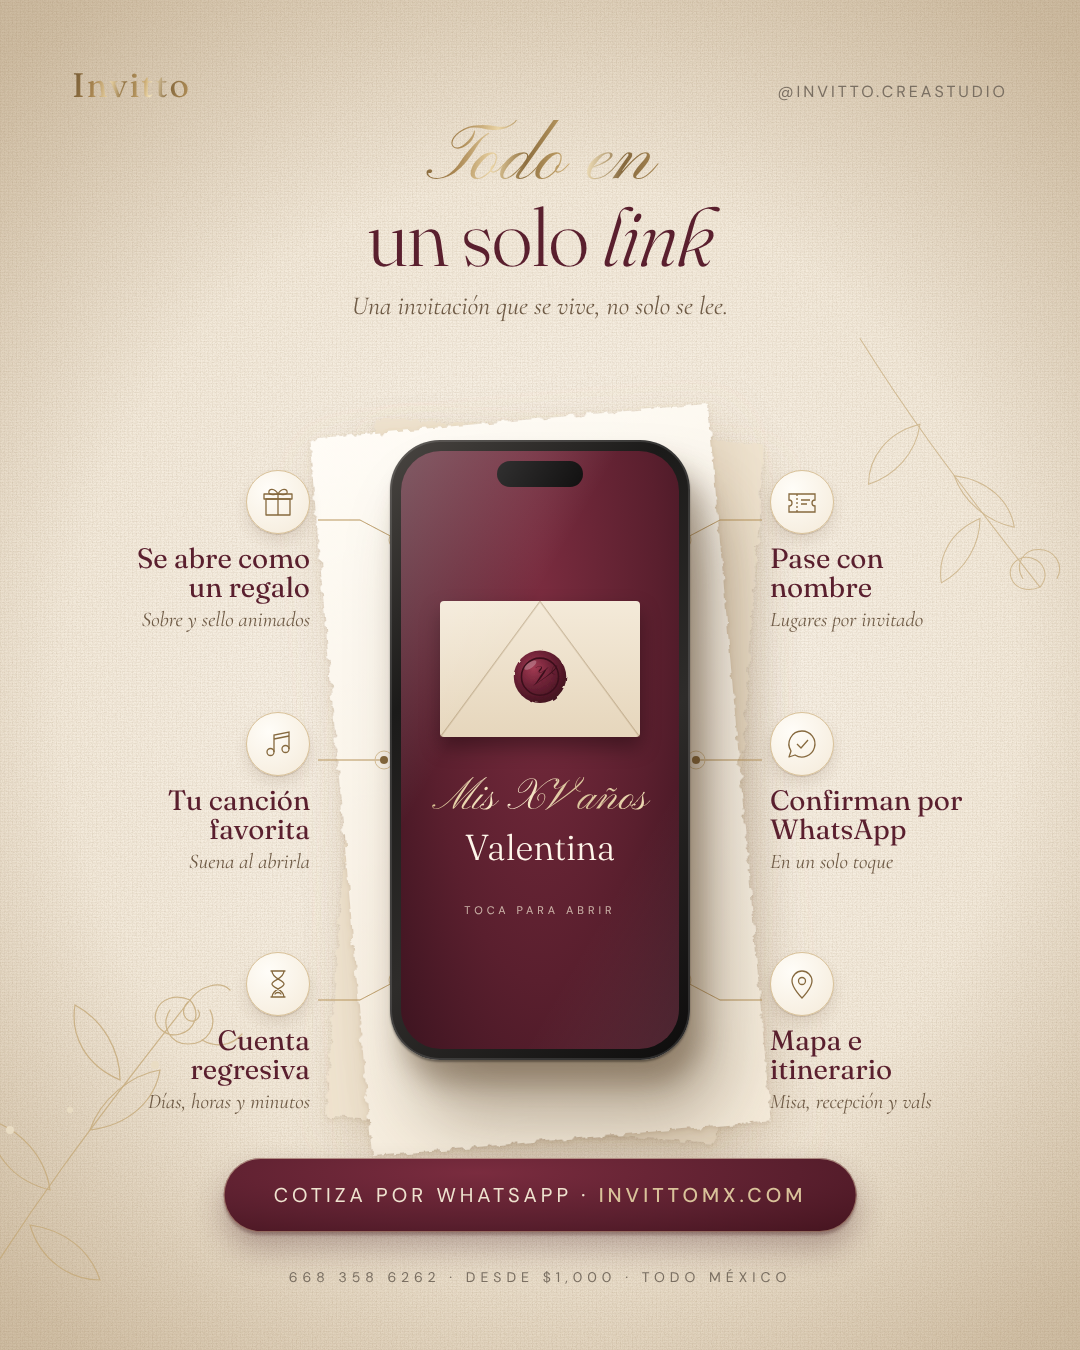
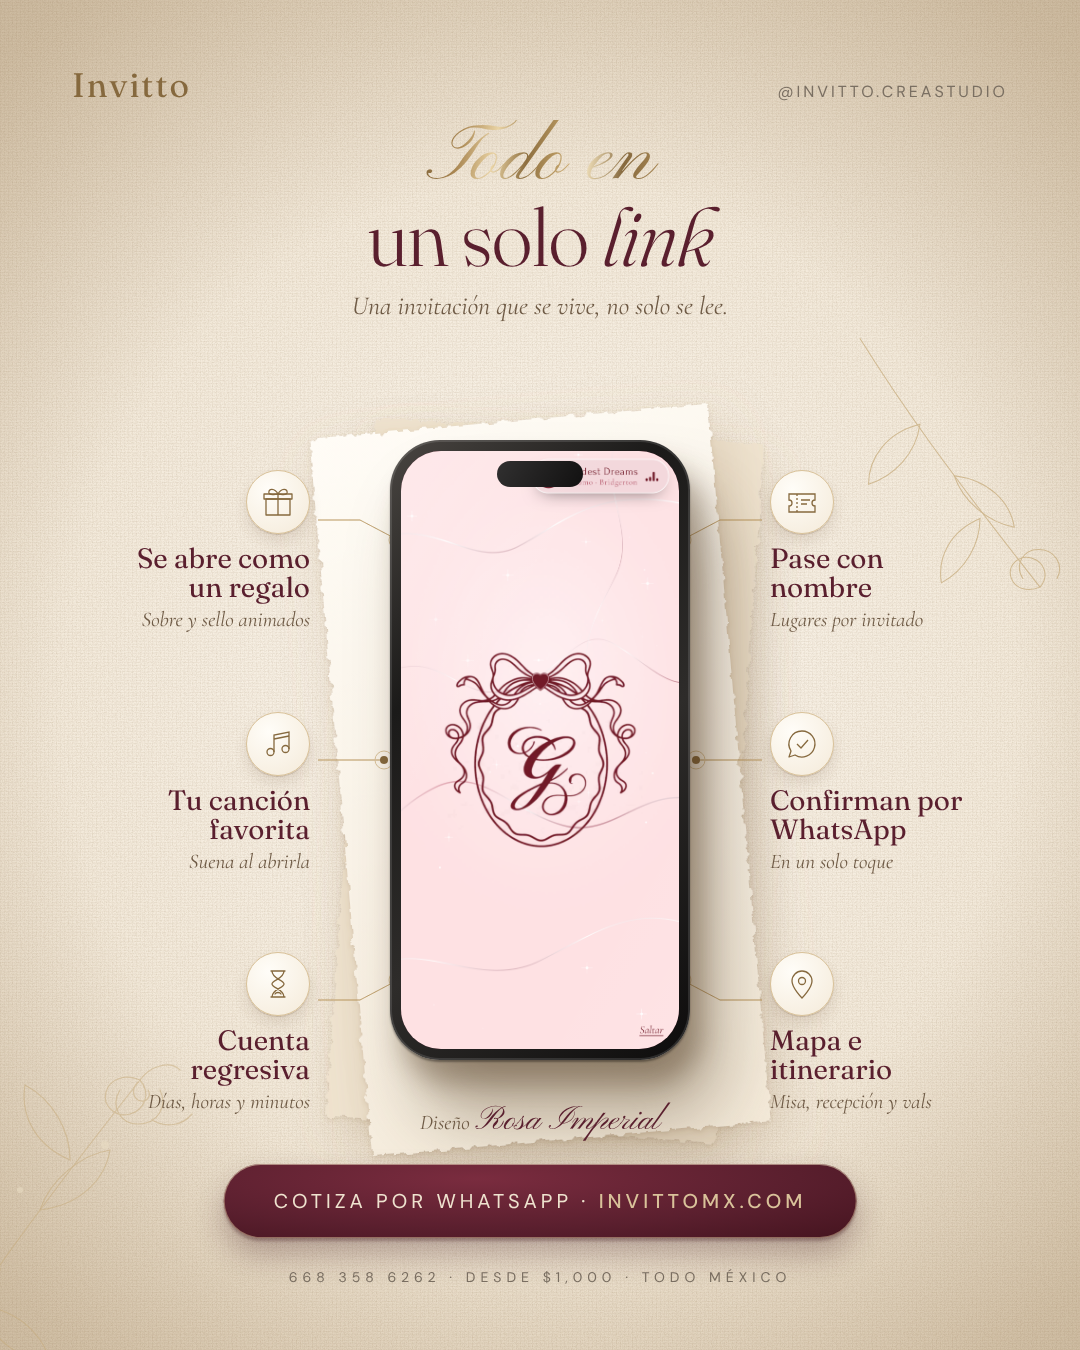
Redesign general posts with real Invitto designs
Claude-Session: https://claude.ai/code/session_01EgrmTncf6G6khRgjzffLsV

diff --git a/invitto-posts/src/xv-1-promo.html b/invitto-posts/src/xv-1-promo.html
@@ -4,7 +4,7 @@
 :root{--ch:#2E2C2A;--iv:#FAF5EC;--ivd:#F1E8DA;--g:#D9C29A;--gd:#86693E;--w:#5A1F2E;--bl:#EFE3CF}
 *{margin:0;padding:0;box-sizing:border-box}
 body{width:1080px;height:1350px;overflow:hidden;position:relative;font-family:"DM Sans",sans-serif;
- background:radial-gradient(ellipse 70% 55% at 40% 52%,#7a2c3f 0%,#5A1F2E 45%,#3a121c 80%,#24090f 100%)}
+ background:radial-gradient(ellipse 70% 55% at 40% 52%,#8a1f2a 0%,#5e1420 45%,#36080f 80%,#1f0408 100%)}
 .satin{position:absolute;inset:0;filter:url(#satinF);opacity:.55;mix-blend-mode:soft-light}
 .satin2{position:absolute;inset:0;background:
  linear-gradient(118deg,transparent 20%,rgba(255,220,225,.10) 30%,transparent 38%,transparent 55%,rgba(255,210,220,.08) 63%,transparent 72%),
@@ -67,7 +67,7 @@ body{width:1080px;height:1350px;overflow:hidden;position:relative;font-family:"D
  background:linear-gradient(90deg,#c9a9ad 0%,#f6e4e2 20%,#e3c7c6 38%,#b88d93 62%,#efd9d6 82%,#a87c83 100%);
  box-shadow:6px 0 10px rgba(60,20,25,.35),2px 0 2px rgba(60,20,25,.3)}
 .ribbon::after{content:"";position:absolute;inset:0;background:repeating-linear-gradient(0deg,rgba(255,255,255,.06) 0 2px,transparent 2px 5px)}
-.seal{position:absolute;left:300px;top:1040px;width:200px;height:200px;z-index:11;transform:rotate(-12deg);
+.seal{position:absolute;left:452px;top:478px;width:170px;height:170px;z-index:11;transform:rotate(-12deg);
  filter:drop-shadow(0 3px 2px rgba(20,0,5,.6)) drop-shadow(8px 16px 16px rgba(20,0,5,.5))}
 .bow{position:absolute;left:200px;top:1000px;z-index:10}
 .foot{position:absolute;bottom:58px;left:0;right:0;text-align:center;z-index:20;color:var(--bl)}
@@ -92,7 +92,7 @@ body{width:1080px;height:1350px;overflow:hidden;position:relative;font-family:"D
 </svg>
 <div class="satin"></div><div class="satin2"></div><div class="vig"></div>
 
-<div class="brand"><b class="foil">Invitto</b><span>@INVITTO.CREASTUDIO</span></div>
+<div class="brand"><img src="file:///home/user/cavernicola/invitto-posts/assets/logo-crema.png" style="height:44px"><span>@INVITTO.CREASTUDIO</span></div>
 <div class="head">
  <div class="s foil">Que digan</div>
  <h1 class="foil"><i>¡wow!</i> antes de llegar</h1>
@@ -104,30 +104,16 @@ body{width:1080px;height:1350px;overflow:hidden;position:relative;font-family:"D
 <circle cx="60" cy="60" r="6"/><circle cx="50" cy="52" r="4"/><circle cx="70" cy="50" r="4"/><circle cx="130" cy="130" r="5"/><circle cx="140" cy="68" r="6"/><circle cx="132" cy="60" r="4"/><circle cx="148" cy="62" r="4"/><circle cx="30" cy="134" r="5"/><circle cx="24" cy="126" r="3.5"/><circle cx="45" cy="40" r="5"/><circle cx="130" cy="265" r="5"/><circle cx="122" cy="258" r="3.5"/><circle cx="200" cy="210" r="4"/></g></svg>
 
 <div class="glow"></div>
-<div class="phone"><div class="screen"><div class="notch"></div>
- <div class="scr">
-  <svg width="140" height="40" viewBox="0 0 140 40"><g fill="none" stroke="#B8955C" stroke-width="1"><path d="M70 30c-12-16-30-20-60-8M70 30c12-16 30-20 60-8"/><path d="M70 30c-4-10 0-18 0-24c0 6 4 14 0 24z"/></g></svg>
-  <div class="k">TE INVITO A CELEBRAR</div>
-  <div class="xv">Mis XV años</div>
-  <div class="nm">Valentina</div>
-  <div class="dt">12 · 12 · 2026</div>
-  <div class="cd"><div>18<small>DÍAS</small></div><div>07<small>HRS</small></div><div>42<small>MIN</small></div></div>
-  <div class="music"><span>▶</span><div class="bar"></div><span>1:12</span></div>
-  <div class="btn">CONFIRMAR ASISTENCIA</div>
- </div><div class="glare"></div></div></div>
+<div class="phone"><div class="screen"><div class="notch"></div><div>
+ <img src="file:///home/user/cavernicola/invitto-posts/assets/demo-ana-daniela-0.png" style="position:absolute;inset:0;width:100%;height:100%;object-fit:cover"></div><div class="glare"></div></div></div>
 
 <div class="cardwrap"><div class="lace"></div>
  <div class="card"><div class="paper"></div><div class="in"></div><div class="in2"></div>
-  <div class="t">
-   <svg width="170" height="60" viewBox="0 0 170 60"><g fill="none" stroke="#9c7c48" stroke-width="1.1" stroke-linecap="round">
-    <path d="M85 50c0-10-6-16-14-16s-12 8-6 12s12-2 10-8"/><path d="M85 50c0-10 6-16 14-16s12 8 6 12s-12-2-10-8"/>
-    <path d="M85 48C70 52 40 50 14 36M85 48c15 4 45 2 71-12"/><path d="M40 46c-6-8-4-16 4-20c2 8 0 14-4 20zM130 46c6-8 4-16-4-20c-2 8 0 14 4 20z"/>
-    <path d="M85 32c-6-6-6-14 0-20c6 6 6 14 0 20z"/><circle cx="85" cy="6" r="2.5"/></g></svg>
-   <div class="k">TE INVITO A CELEBRAR</div>
-   <div class="xv foil" style="padding:0 10px">Mis XV años</div>
-   <div class="nm">Valentina</div>
-   <div class="dt">12 · 12 · 2026</div>
-   <div class="pl">Mazatlán, Sinaloa</div>
+  <div class="t" style="padding-top:62px">
+   <div style="margin:0 auto;width:330px;height:370px;background:url(file:///home/user/cavernicola/invitto-posts/assets/a1.jpg) center 20%/cover;box-shadow:0 0 0 1px rgba(134,105,62,.4),0 2px 6px rgba(60,30,10,.25)"></div>
+   <div class="k" style="margin-top:22px">DISEÑO</div>
+   <div class="xv foil" style="font-size:66px;margin-top:4px;padding:0 10px">Terciopelo Real</div>
+   <div class="pl">XV de Ana Daniela · 26 · 12 · 2026</div>
   </div>
  </div><div class="ribbon"></div>
  <svg style="position:absolute;left:-50px;top:60px;z-index:10;filter:drop-shadow(3px 6px 6px rgba(40,5,12,.45))" width="200" height="170" viewBox="0 0 200 170">
@@ -145,7 +131,7 @@ body{width:1080px;height:1350px;overflow:hidden;position:relative;font-family:"D
  <g filter="url(#emb)">
   <circle cx="100" cy="100" r="58" fill="#5e1c2e" stroke="#4a1322" stroke-width="3"/>
   <circle cx="100" cy="100" r="50" fill="none" stroke="#7e2c42" stroke-width="2"/>
-  <text x="100" y="124" text-anchor="middle" font-family="Pinyon Script" font-size="80" fill="#3a0c18">V</text><text x="98.5" y="122.5" text-anchor="middle" font-family="Pinyon Script" font-size="80" fill="none" stroke="#c4677d" stroke-width=".8" opacity=".6">V</text>
+  <text x="100" y="124" text-anchor="middle" font-family="Pinyon Script" font-size="64" fill="#3a0c18">AD</text><text x="98.5" y="122.5" text-anchor="middle" font-family="Pinyon Script" font-size="64" fill="none" stroke="#c4677d" stroke-width=".8" opacity=".6">AD</text>
   <path d="M62 132c12 10 26 12 38 12s26-2 38-12" fill="none" stroke="#7e2c42" stroke-width="2"/>
  </g>
  <ellipse cx="72" cy="66" rx="22" ry="9" fill="#fff" opacity=".22" transform="rotate(-35 72 66)"/>

diff --git a/invitto-posts/src/xv-2-funciones.html b/invitto-posts/src/xv-2-funciones.html
@@ -43,7 +43,7 @@ body{width:1080px;height:1350px;overflow:hidden;position:relative;font-family:"D
 .co h3{font-family:Fraunces,serif;font-weight:400;font-size:28px;color:var(--w);margin-top:10px;line-height:1.05}
 .co p{font-family:"Cormorant Garamond",serif;font-style:italic;font-size:21px;color:#6e5a45;margin-top:4px;line-height:1.2}
 .lines{position:absolute;inset:0;z-index:4}
-.cta{position:absolute;left:50%;bottom:118px;transform:translateX(-50%);z-index:8;white-space:nowrap;padding:24px 50px;border-radius:60px;
+.cta{position:absolute;left:50%;bottom:112px;transform:translateX(-50%);z-index:8;white-space:nowrap;padding:24px 50px;border-radius:60px;
  background:radial-gradient(ellipse at 40% 20%,#7a2c3f,#5A1F2E 60%,#45141f);color:var(--bl);font-size:20px;letter-spacing:4px;
  box-shadow:inset 0 1px 0 rgba(255,255,255,.18),inset 0 0 0 1px rgba(217,194,154,.5),0 3px 3px rgba(60,20,25,.3),0 16px 30px rgba(60,20,25,.3)}
 .cta b{font-weight:500;color:var(--g)}
@@ -60,7 +60,7 @@ body{width:1080px;height:1350px;overflow:hidden;position:relative;font-family:"D
 <div class="linen"></div><div class="grain"></div><div class="vig"></div>
 
 <!-- botanical line art corners -->
-<svg class="bot" style="left:-30px;top:880px" width="300" height="420" viewBox="0 0 300 420"><g fill="none" stroke="#c4a877" stroke-width="1.2" stroke-linecap="round" opacity=".8">
+<svg class="bot" style="left:-80px;top:960px;opacity:.6" width="300" height="420" viewBox="0 0 300 420"><g fill="none" stroke="#c4a877" stroke-width="1.2" stroke-linecap="round" opacity=".8">
  <path d="M10 410C60 330 110 260 220 120"/><path d="M80 310c-40-10-60-40-60-70c30 10 55 35 60 70zM120 250c40-5 65-30 70-60c-30 5-60 30-70 60zM150 200c-35-15-50-45-45-75c28 15 45 45 45 75zM60 345c35 5 60 25 70 55c-30 0-60-20-70-55z"/>
  <path d="M220 120c-14-6-30-2-34 12c-4 14 10 26 24 22c14-4 22-20 10-34zM218 122c-6 6-6 14 0 18c8 4 14-4 10-10M200 130c-10 16 0 34 18 34c20 0 30-18 22-34"/>
  <path d="M220 120c10-14 30-20 40-10M232 160c14 8 30 6 40-6"/></g>
@@ -69,7 +69,7 @@ body{width:1080px;height:1350px;overflow:hidden;position:relative;font-family:"D
  <path d="M10 410C60 330 110 260 220 120"/><path d="M80 310c-40-10-60-40-60-70c30 10 55 35 60 70zM120 250c40-5 65-30 70-60c-30 5-60 30-70 60zM150 200c-35-15-50-45-45-75c28 15 45 45 45 75z"/>
  <path d="M220 120c-14-6-30-2-34 12c-4 14 10 26 24 22c14-4 22-20 10-34zM200 130c-10 16 0 34 18 34c20 0 30-18 22-34"/></g></svg>
 
-<div class="brand"><b class="foil">Invitto</b><span>@INVITTO.CREASTUDIO</span></div>
+<div class="brand"><b style="color:#86693E">Invitto</b><span>@INVITTO.CREASTUDIO</span></div>
 <div class="head">
  <div class="s foil">Todo en</div>
  <h1>un solo <i>link</i></h1>
@@ -78,12 +78,7 @@ body{width:1080px;height:1350px;overflow:hidden;position:relative;font-family:"D
 
 <div class="deck2"></div><div class="deck"></div>
 <div class="phone"><div class="screen"><div class="notch"></div>
- <div class="scr">
-  <div class="env"><svg width="64" height="64" viewBox="0 0 200 200"><g filter="url(#blob)"><circle cx="100" cy="100" r="82" fill="url(#wax)"/></g><circle cx="100" cy="100" r="58" fill="none" stroke="#3b0f1b" stroke-width="5"/><text x="100" y="126" text-anchor="middle" font-family="Pinyon Script" font-size="84" fill="#3b0f1b">V</text><ellipse cx="70" cy="64" rx="22" ry="9" fill="#fff" opacity=".25" transform="rotate(-35 70 64)"/></svg></div>
-  <div class="xv foil" style="background:linear-gradient(100deg,#c9ab74,#fff3d6 40%,#d9c29a 60%,#f3e2bb);-webkit-background-clip:text;color:transparent">Mis XV años</div>
-  <div class="nm">Valentina</div>
-  <div class="tap">TOCA PARA ABRIR</div>
- </div><div class="glare"></div></div></div>
+ <img src="file:///home/user/cavernicola/invitto-posts/assets/demo-geraldine-1.png" style="position:absolute;inset:0;width:100%;height:100%;object-fit:cover"><div class="glare"></div></div></div>
 
 <svg class="lines" viewBox="0 0 1080 1350"><g fill="none" stroke="#b8955c" stroke-width="1" stroke-dasharray="1 0">
  <path d="M318 520 H360 L398 540"/><path d="M318 760 H384"/><path d="M318 1000 H360 L398 980"/>
@@ -100,6 +95,7 @@ body{width:1080px;height:1350px;overflow:hidden;position:relative;font-family:"D
 <div class="co r" style="left:770px;top:712px"><span class="ic"><svg width="34" height="34" viewBox="0 0 34 34" fill="none" stroke="#86693E" stroke-width="1.3" stroke-linejoin="round"><path d="M17 4a13 13 0 0 0-11 20l-2 6 6-2A13 13 0 1 0 17 4z"/><path d="M12 17l4 4 7-8"/></svg></span><h3>Confirman por<br>WhatsApp</h3><p>En un solo toque</p></div>
 <div class="co r" style="left:770px;top:952px"><span class="ic"><svg width="34" height="34" viewBox="0 0 34 34" fill="none" stroke="#86693E" stroke-width="1.3"><path d="M17 31s-10-10-10-17a10 10 0 0 1 20 0c0 7-10 17-10 17z"/><circle cx="17" cy="14" r="3.5"/></svg></span><h3>Mapa e<br>itinerario</h3><p>Misa, recepción y vals</p></div>
 
+<div style="position:absolute;left:0;right:0;top:1100px;text-align:center;font-family:'Cormorant Garamond',serif;font-style:italic;font-size:21px;color:#6e5a45;z-index:7">Diseño <span style="font-family:'Pinyon Script';font-style:normal;font-size:34px;color:#5A1F2E">Rosa Imperial</span></div>
 <div class="cta">COTIZA POR WHATSAPP · <b>INVITTOMX.COM</b></div>
 <div class="foot">668 358 6262 · DESDE $1,000 · TODO MÉXICO</div>
 </body></html>

diff --git a/invitto-posts/src/general-2-todo-mexico.html b/invitto-posts/src/general-2-todo-mexico.html
@@ -18,14 +18,20 @@ body{position:relative;font-family:'DM Sans',sans-serif;color:var(--iv);
 .head h1{font-family:'Fraunces',serif;font-weight:300;font-size:62px;line-height:1.08;margin-top:14px;color:#f3ebdd;letter-spacing:-.5px}
 .head h1 .big{display:block;font-size:112px;font-style:italic;letter-spacing:-2px;line-height:1.05}
 .map{position:absolute;left:110px;top:452px;width:860px;height:547px}
-.chips{position:absolute;top:1052px;width:100%;display:flex;justify-content:center;gap:12px}
+.chips{position:absolute;top:1010px;width:100%;display:flex;justify-content:center;gap:12px}
 .chip{font-family:'Cormorant Garamond',serif;font-style:italic;font-size:25px;color:#efe3cb;padding:8px 22px 10px;border:1px solid rgba(217,194,154,.55);border-radius:40px;background:linear-gradient(180deg,rgba(255,255,255,.06),rgba(255,255,255,0));box-shadow:inset 0 1px 0 rgba(255,240,210,.15),0 4px 10px rgba(0,0,0,.35)}
-.price{position:absolute;top:1122px;width:100%;text-align:center;font-family:'Fraunces',serif}
+.price{position:absolute;top:1128px;width:100%;text-align:center;font-family:'Fraunces',serif}
 .price .d{font-size:22px;letter-spacing:6px;color:#b9a072;text-transform:uppercase;vertical-align:middle;margin-right:14px}
 .price .p{font-size:66px;font-weight:400;vertical-align:middle}
 .cta{position:absolute;bottom:64px;left:0;right:0;text-align:center;font-size:19px;letter-spacing:4px;color:#e9dcc4}
 .cta b{font-weight:500;color:#D9C29A}
 .rule{position:absolute;bottom:108px;left:50%;width:420px;margin-left:-210px;height:1px;background:linear-gradient(90deg,transparent,#86693E,#d9c29a,#86693E,transparent)}
+.phones{position:absolute;left:0;right:0;top:520px;height:470px}
+.ph{position:absolute;width:196px;height:424px;border-radius:30px;background:linear-gradient(135deg,#3b3733,#0f0e0d 40%,#2a2724 70%,#5a534c);padding:7px;box-shadow:0 30px 40px rgba(0,0,0,.6),0 8px 12px rgba(0,0,0,.5),inset 0 0 0 1px rgba(217,194,154,.5)}
+.ph img{width:100%;height:100%;border-radius:24px;display:block;object-fit:cover}
+.ph::after{content:"";position:absolute;inset:7px;border-radius:24px;background:linear-gradient(115deg,rgba(255,255,255,.22),rgba(255,255,255,0) 35%)}
+.chip{font-size:21px!important;padding:7px 18px 9px!important}.chip i{font-style:normal;font-family:'DM Sans';font-size:13px;letter-spacing:2.5px;color:#b9a072;margin-right:8px;text-transform:uppercase}
+.chips{flex-wrap:wrap;left:90px;right:90px;width:auto!important;row-gap:10px}
 .frame{position:absolute;inset:34px;border:1px solid rgba(217,194,154,.28)}
 </style></head><body>
 <svg class="tex" width="1080" height="1350">
@@ -34,7 +40,7 @@ body{position:relative;font-family:'DM Sans',sans-serif;color:var(--iv);
 <radialGradient id="sheen" cx=".3" cy=".18" r=".6"><stop offset="0" stop-color="#fff" stop-opacity=".07"/><stop offset="1" stop-color="#fff" stop-opacity="0"/></radialGradient><rect width="1080" height="1350" fill="url(#sheen)"/>
 </svg>
 <div class="frame"></div>
-<div class="brand"><span class="w foil">Invitto</span><span class="h">@INVITTO.CREASTUDIO</span></div>
+<div class="brand"><img src="../assets/logo-crema.png" style="height:46px;display:block;margin-bottom:8px;filter:drop-shadow(0 2px 3px rgba(0,0,0,.5))"><span class="h">@INVITTO.CREASTUDIO</span></div>
 <div class="tag">Envíos digitales</div>
 <div class="head"><span class="script s">Estés donde estés</span><h1>Invitaciones digitales para<span class="big foil">todo México</span></h1></div>
 
@@ -62,8 +68,12 @@ body{position:relative;font-family:'DM Sans',sans-serif;color:var(--iv);
 <!-- compass -->
 <g transform="translate(150 560)" stroke="#b9a072" fill="none" stroke-width="1"><circle r="44" opacity=".6"/><circle r="36" stroke-dasharray="1 4"/><path d="M0 -58 L7 0 L0 58 L-7 0Z" fill="rgba(217,194,154,.25)"/><path d="M-58 0 L0 -6 L58 0 L0 6Z" opacity=".7"/><text y="-64" text-anchor="middle" font-family="Fraunces" font-size="16" fill="#d9c29a" stroke="none">N</text></g>
 </svg>
-
-<div class="chips"><span class="chip">XV años</span><span class="chip">Bodas</span><span class="chip">Bautizos</span><span class="chip">Baby shower</span><span class="chip">Cumpleaños</span></div>
+<div class="phones">
+<div class="ph" style="left:262px;top:40px;transform:rotate(-11deg)"><img src="../assets/demo-geraldine-1.png"></div>
+<div class="ph" style="left:622px;top:40px;transform:rotate(11deg)"><img src="../assets/demo-danna-sofia-2.png"></div>
+<div class="ph" style="left:442px;top:0;z-index:2;transform:scale(1.04)"><img src="../assets/demo-ana-daniela-0.png"></div>
+</div>
+<div class="chips"><span class="chip"><i>XV</i>Terciopelo Real</span><span class="chip"><i>Boda</i>Jardín Eucalipto</span><span class="chip"><i>Bautizo</i>Nube Celeste</span><span class="chip"><i>Baby</i>Osito Rosé</span><span class="chip"><i>Cumple</i>Fiesta Mexicana</span></div>
 <div class="price"><span class="d">Desde</span><span class="p foil">$1,000 MXN</span></div>
 <div class="rule"></div>
 <div class="cta">WHATSAPP <b>668 358 6262</b> &nbsp;·&nbsp; INVITTOMX.COM</div>

diff --git a/invitto-posts/src/general-1-como-funciona.html b/invitto-posts/src/general-1-como-funciona.html
@@ -33,6 +33,7 @@ body{position:relative;font-family:'DM Sans',sans-serif;color:var(--ch);
 .foot{position:absolute;bottom:52px;width:100%;text-align:center}
 .foot .s{font-size:62px;color:var(--w);line-height:1}
 .foot .u{font-size:16px;letter-spacing:6px;color:var(--gd);margin-top:12px}
+.th{position:absolute;width:70px;height:128px;object-fit:cover;border:3px solid #fffdf8;box-shadow:0 6px 12px rgba(60,40,20,.35)}
 .seal{position:absolute}
 </style></head><body>
 <svg width="0" height="0" style="position:absolute"><defs>
@@ -59,8 +60,8 @@ body{position:relative;font-family:'DM Sans',sans-serif;color:var(--ch);
 <svg style="position:absolute;left:0;top:0" width="1080" height="1350"><path d="M-30 575 C120 535 200 615 330 605 C500 590 560 535 760 575 C980 620 1000 735 820 765 C600 800 420 735 300 775 C140 825 160 975 330 985 C520 995 620 935 780 965 C920 990 1000 1055 1110 1035" stroke="rgba(60,40,20,.2)" stroke-width="3" fill="none" transform="translate(3,9)" style="filter:blur(3px)"/><path d="M-30 575 C120 535 200 615 330 605 C500 590 560 535 760 575 C980 620 1000 735 820 765 C600 800 420 735 300 775 C140 825 160 975 330 985 C520 995 620 935 780 965 C920 990 1000 1055 1110 1035" stroke="url(#thread)" stroke-width="2.6" fill="none"/></svg>
 <div class="card" style="left:150px;top:412px;transform:rotate(-4deg)"><div class="sh"></div><div class="sh2"></div><div class="paper"></div><div class="in"></div><div class="tape"></div>
 <span class="num foil">1</span>
-<svg class="ill" viewBox="0 0 170 170" fill="none" stroke="#86693E" stroke-width="1.6"><path d="M85 22c-40 0-66 26-66 58 0 30 22 50 46 50 10 0 12-8 8-14-4-7 0-14 9-14h16c22 0 40-14 40-36 0-26-24-44-53-44z" fill="#fbf6ec"/><circle cx="55" cy="62" r="10" fill="#5A1F2E" stroke="none"/><circle cx="85" cy="46" r="10" fill="#D9C29A" stroke="none"/><circle cx="117" cy="58" r="10" fill="#2E2C2A" stroke="none"/><circle cx="50" cy="94" r="10" fill="#F1E8DA" stroke="#b9a072"/><path d="M118 120 l34 34" stroke-width="3" stroke="#2E2C2A"/><path d="M110 112 c-6 -2 -10 2 -8 8 l8 6 6 -8z" fill="#86693E"/></svg>
-<div class="lab">Elige tu diseño<small>colecciones para cada celebración</small></div></div>
+<div class="ill" style="width:170px;height:170px;top:40px;right:22px"><img class="th" src="../assets/e1.jpg" style="left:6px;top:20px;transform:rotate(-12deg)"><img class="th" src="../assets/demo-geraldine-1.png" style="left:100px;top:22px;transform:rotate(11deg)"><img class="th" src="../assets/demo-ana-daniela-0.png" style="left:52px;top:4px;z-index:2"></div>
+<div class="lab">Elige tu diseño<small>Terciopelo Real, Concha Rosa, Jardín Eucalipto…</small></div></div>
 
 <div class="card" style="left:600px;top:394px;transform:rotate(3.2deg)"><div class="sh"></div><div class="sh2"></div><div class="paper"></div><div class="in"></div><div class="tape" style="left:110px;transform:rotate(5deg)"></div>
 <span class="num foil">2</span>
@@ -74,7 +75,7 @@ body{position:relative;font-family:'DM Sans',sans-serif;color:var(--ch);
 
 <div class="card" style="left:592px;top:778px;transform:rotate(-3deg)"><div class="sh"></div><div class="sh2"></div><div class="paper"></div><div class="in"></div><div class="tape" style="left:130px;transform:rotate(-3deg)"></div>
 <span class="num foil">4</span>
-<svg class="ill" viewBox="0 0 170 170" fill="none" stroke="#86693E" stroke-width="1.6"><rect x="46" y="12" width="78" height="148" rx="14" fill="#2E2C2A" stroke="#2E2C2A"/><rect x="52" y="24" width="66" height="124" rx="6" fill="#FAF5EC" stroke="none"/><text x="85" y="48" text-anchor="middle" font-family="Pinyon Script" font-size="16" fill="#86693E" stroke="none">Sí, asistiré</text><g stroke="#5A1F2E" stroke-width="2"><path d="M60 68l4 4 7-8"/><path d="M60 90l4 4 7-8"/><path d="M60 112l4 4 7-8"/></g><path d="M78 68h32M78 90h26M78 112h30" stroke="#c9b48a"/><path d="M122 36c14 4 22 14 24 28M128 26c20 6 30 22 30 40" stroke="#b9a072"/><circle cx="85" cy="134" r="7" fill="#D9C29A" stroke="none"/></svg>
+<div class="ill" style="width:170px;height:200px;top:30px;right:30px"><div style="position:absolute;left:30px;top:0;width:96px;height:206px;border-radius:16px;background:#1d1b19;padding:4px;box-shadow:0 12px 18px rgba(50,30,10,.35),inset 0 0 0 1px #86693E;transform:rotate(6deg)"><img src="../assets/demo-danna-sofia-2.png" style="width:100%;height:100%;border-radius:12px;object-fit:cover;display:block"></div><div style="position:absolute;left:104px;top:120px;width:56px;height:56px;border-radius:50%;background:radial-gradient(circle at 35% 30%,#8a3a4c,#5A1F2E 60%,#3a1019);box-shadow:0 6px 10px rgba(60,20,30,.4);display:flex;align-items:center;justify-content:center"><svg width="28" height="28" viewBox="0 0 28 28"><path d="M6 14l5 5 11-12" stroke="#F1E8DA" stroke-width="3" fill="none"/></svg></div></div>
 <div class="lab">Comparte tu link<small>y recibe confirmaciones al instante</small></div></div>
 
 <!-- wax seal on thread -->
